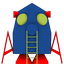
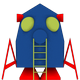
add shield drawable for player

diff --git a/LunarMooner/src/LMPlayerController.cpp b/LunarMooner/src/LMPlayerController.cpp
@@ -252,7 +252,7 @@ void PlayerController::collisionCallback(CollisionComponent* cc)
             
 
             m_shield = false;
-            //m_entity->getComponent<xy::SfDrawableComponent<sf::RectangleShape>>()->getDrawable().setOutlineThickness(0.f);
+            m_entity->getComponent<PlayerDrawable>()->setShield(false);
 
             auto position = m_entity->getPosition();
             auto shieldMsg = getMessageBus().post<LMGameEvent>(LMMessageId::GameEvent);
@@ -310,7 +310,7 @@ void PlayerController::collisionCallback(CollisionComponent* cc)
         msg->value = cc->getScoreValue();
 
         m_shield = true;
-        //m_entity->getComponent<xy::SfDrawableComponent<sf::RectangleShape>>()->getDrawable().setOutlineThickness(2.f);
+        m_entity->getComponent<PlayerDrawable>()->setShield(true);
     }
     break;
     case CollisionComponent::ID::Tower:
@@ -338,7 +338,7 @@ void PlayerController::collisionCallback(CollisionComponent* cc)
                     m_velocity *= 0.9f;
                     //broke the shield :(
                     m_shield = false;
-                    //m_entity->getComponent<xy::SfDrawableComponent<sf::RectangleShape>>()->getDrawable().setOutlineThickness(0.f);
+                    m_entity->getComponent<PlayerDrawable>()->setShield(false);
 
                     auto position = m_entity->getPosition();
                     auto shieldMsg = getMessageBus().post<LMGameEvent>(LMMessageId::GameEvent);

diff --git a/LunarMooner/src/LMGameController.cpp b/LunarMooner/src/LMGameController.cpp
@@ -70,7 +70,7 @@ using namespace std::placeholders;
 
 namespace
 {
-    const sf::Vector2f playerSize(42.f, 64.f);
+    const sf::Vector2f playerSize(50.f, 80.f);
     const sf::Color playerColour(127, 127, 127);
     const sf::Vector2f bulletSize(2.f, 24.f);
 
@@ -702,7 +702,7 @@ void GameController::createMothership()
 {
     auto drawable = xy::Component::create<xy::SfDrawableComponent<sf::CircleShape>>(getMessageBus());
     drawable->getDrawable().setRadius(10.f);
-    drawable->getDrawable().setScale(12.f, 4.f);
+    drawable->getDrawable().setScale(12.f, 5.f);
     drawable->getDrawable().setFillColor(sf::Color::Yellow);
 
     auto controller = xy::Component::create<lm::MothershipController>(getMessageBus(), mothershipBounds);
@@ -957,7 +957,7 @@ void GameController::addRescuedHuman()
     offset *= m_playerStates[m_currentPlayer].humansSaved;
 
     auto entity = xy::Entity::create(getMessageBus());
-    entity->setPosition(pad + offset + 4.f, 24.f);
+    entity->setPosition(pad + offset + 4.f, 44.f);
     entity->addComponent(drawable);
     m_mothership->addChild(entity);
 }

diff --git a/LunarMooner/src/LMPlayerDrawable.cpp b/LunarMooner/src/LMPlayerDrawable.cpp
@@ -38,8 +38,10 @@ using namespace lm;
 
 PlayerDrawable::PlayerDrawable(xy::MessageBus& mb, xy::TextureResource& tr, const sf::Vector2f& size)
     : xy::Component (mb, this),
+    m_hasShield     (false),
     m_diffuseTexture(tr.get("assets/images/game/ship_diffuse.png")),
-    m_normalMap     (tr.get("assets/images/game/ship_normal.png"))
+    m_normalMap     (tr.get("assets/images/game/ship_normal.png")),
+    m_shieldTexture (tr.get("assets/images/game/ship_shield.png"))
 {
     sf::Vector2f texSize(m_diffuseTexture.getSize());
     const float offset = (texSize.x - size.x) / 2.f;
@@ -119,5 +121,14 @@ void PlayerDrawable::draw(sf::RenderTarget& rt, sf::RenderStates states) const
 
     states.shader = getActiveShader();
     states.texture = &m_diffuseTexture;
+    
     rt.draw(m_vertices.data(), m_vertices.size(), sf::Quads, states);
+
+    if (m_hasShield)
+    {
+        states.blendMode = sf::BlendAdd;
+        states.texture = &m_shieldTexture;
+        states.shader = nullptr;
+        rt.draw(m_vertices.data(), m_vertices.size(), sf::Quads, states);
+    }
 }

diff --git a/LunarMooner/include/LMPlayerDrawable.hpp b/LunarMooner/include/LMPlayerDrawable.hpp
@@ -59,7 +59,7 @@ namespace lm
         void entityUpdate(xy::Entity&, float) override;
 
         void setScale(float);
-
+        void setShield(bool b) { m_hasShield = b; }
     private:
 
         struct Quad final : public sf::Transformable
@@ -67,10 +67,11 @@ namespace lm
             std::array<sf::Vertex, 4> vertices;
         };
         std::array<Quad, 2> m_legs;
+        bool m_hasShield;
 
         sf::Texture& m_diffuseTexture;
         sf::Texture& m_normalMap;
-        //sf::Texture& m_maskMap;
+        sf::Texture& m_shieldTexture;
 
         std::array<sf::Vertex, 12> m_vertices;
         void draw(sf::RenderTarget&, sf::RenderStates) const override;
